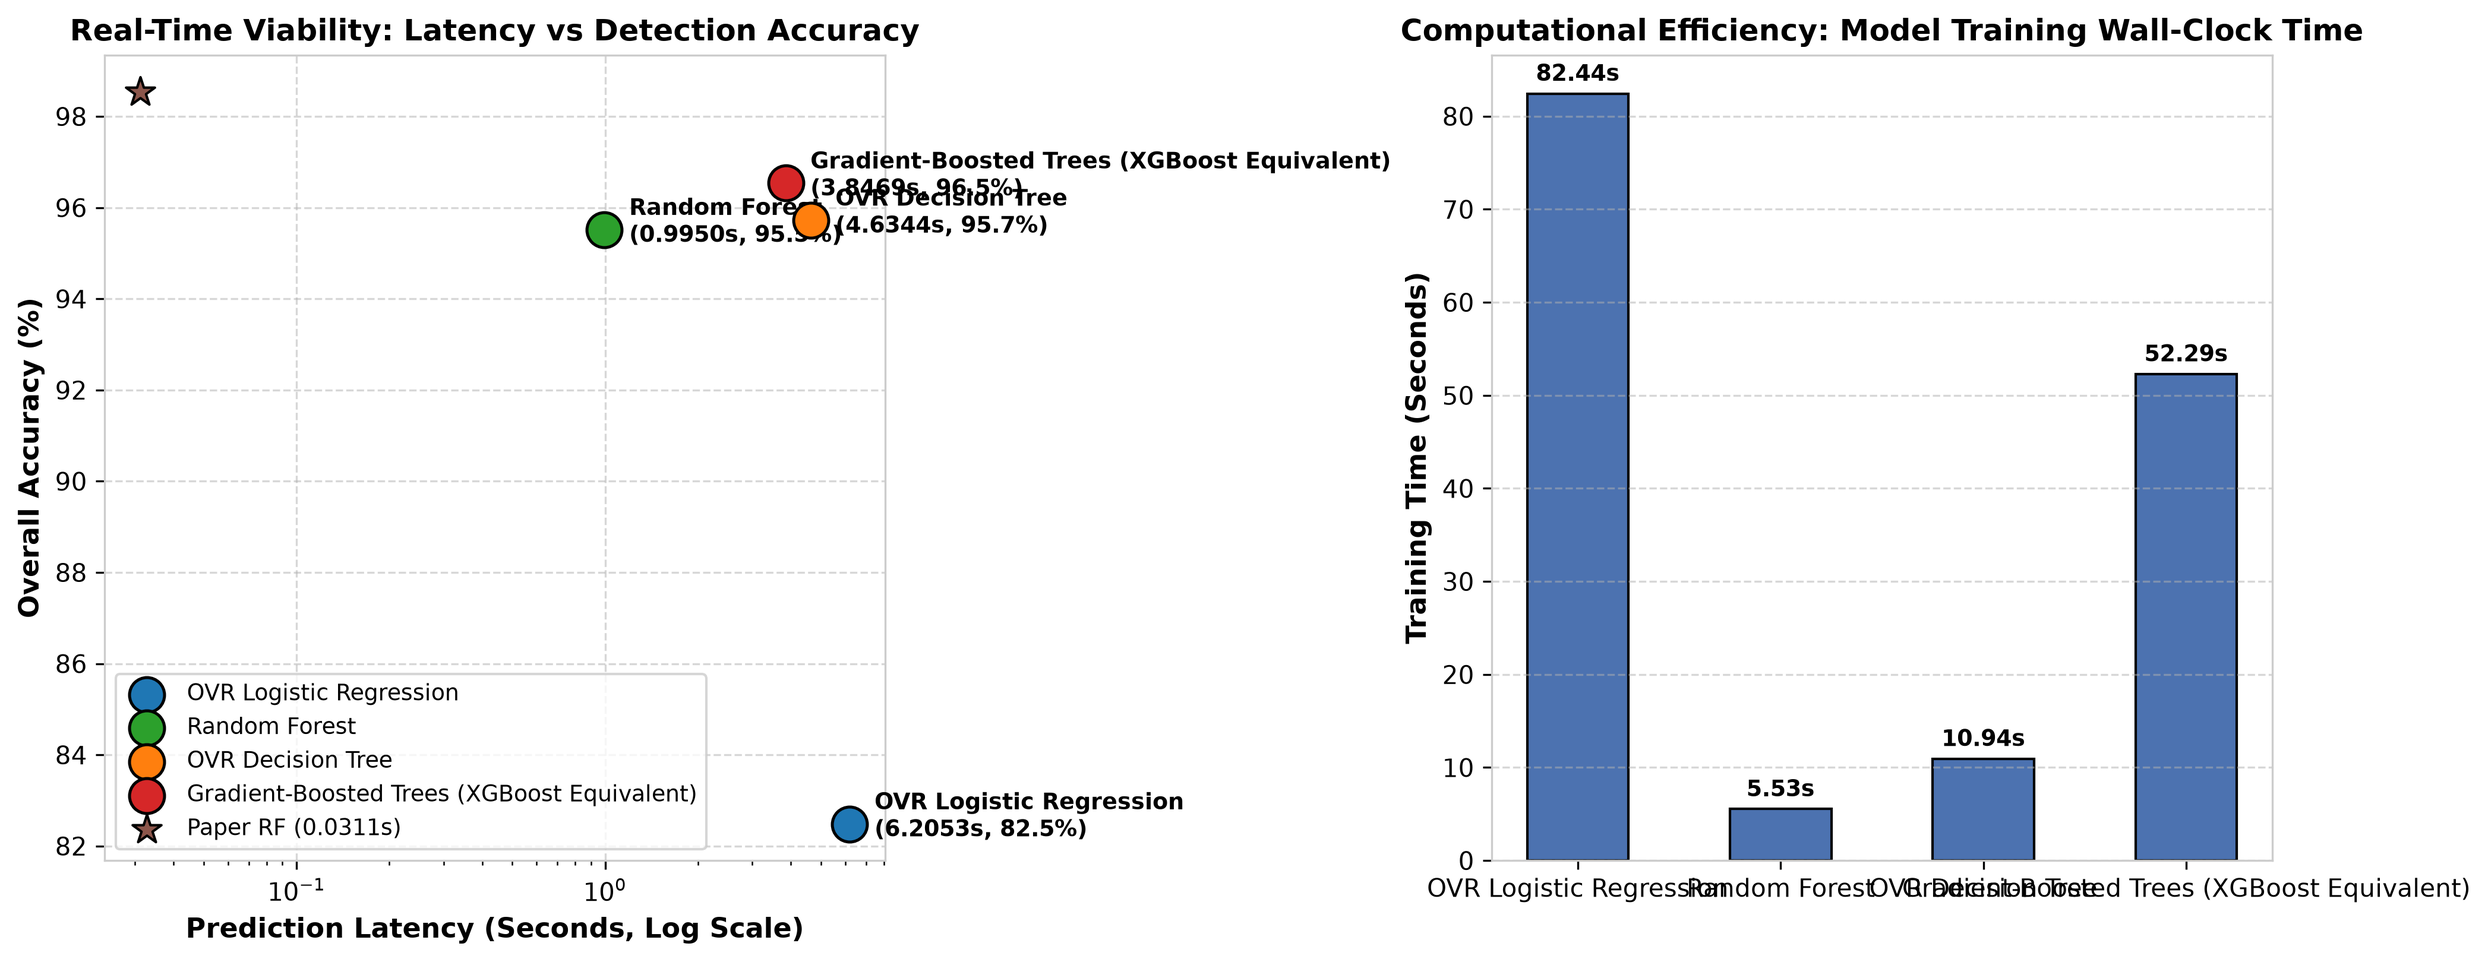
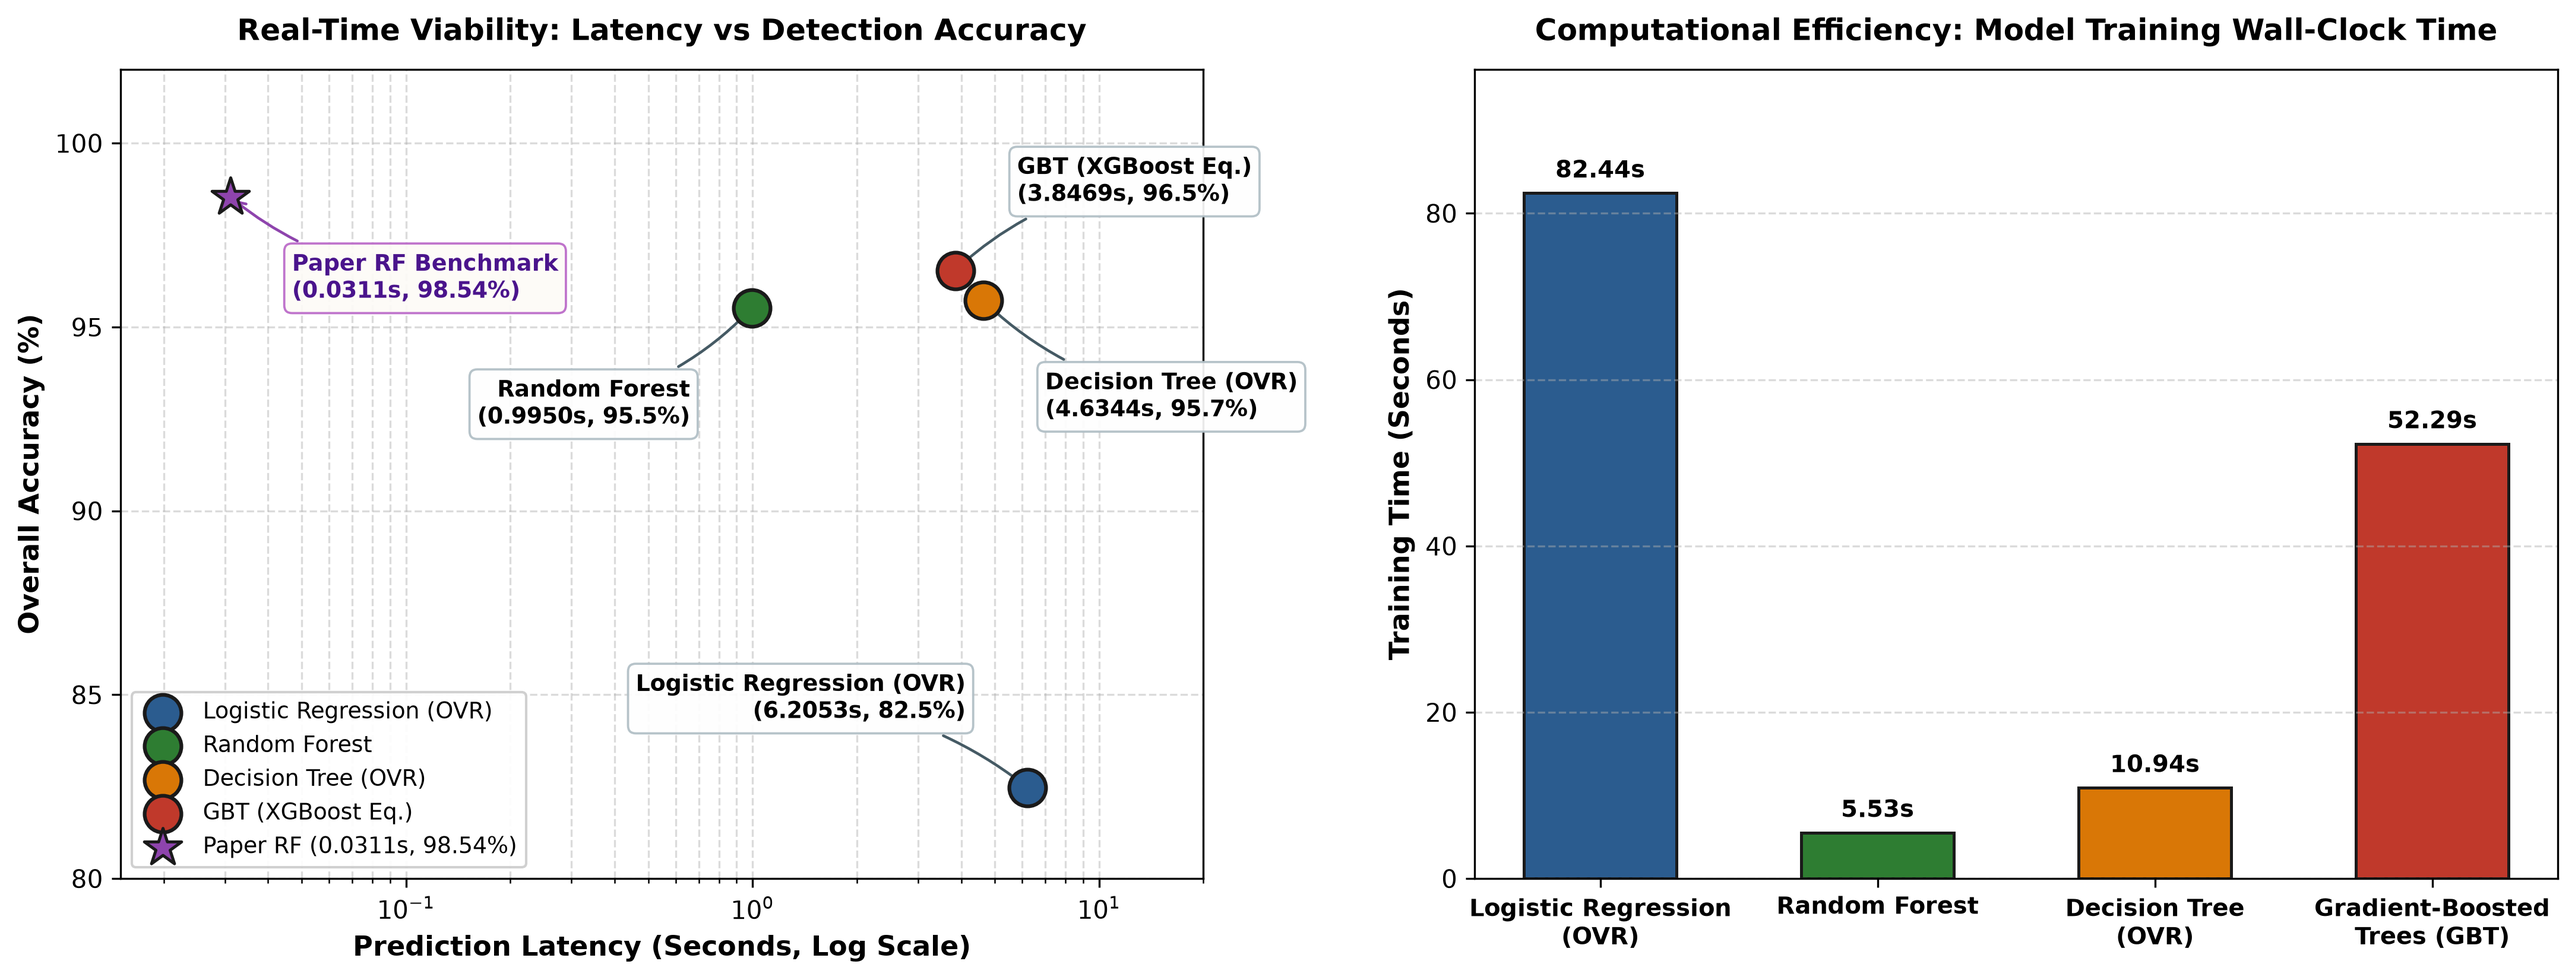
style(viz): polish publication plots with non-overlapping callout annotations and clean multiline x-ticks

diff --git a/src/evaluator.py b/src/evaluator.py
@@ -325,10 +325,23 @@ def plot_performance_comparison(
     ax.axhline(98.89, color="#d62728", linestyle="--", linewidth=1.2, label="Paper Peak Accuracy (XGB: 98.89%)")
     ax.axhline(98.54, color="#e377c2", linestyle=":", linewidth=1.2, label="Paper RF Accuracy (98.54%)")
 
+    display_names = []
+    for m in model_names:
+        if "Logistic" in m:
+            display_names.append("Logistic Regression\n(OVR)")
+        elif "Random Forest" in m:
+            display_names.append("Random Forest")
+        elif "Decision Tree" in m:
+            display_names.append("Decision Tree\n(OVR)")
+        elif "Gradient" in m or "GBT" in m:
+            display_names.append("Gradient-Boosted\nTrees (GBT / XGB)")
+        else:
+            display_names.append(m)
+
     ax.set_ylabel("Metric Score (%)", fontsize=11, fontweight="bold")
     ax.set_title("Performance Comparison across Models vs Alrefaei & Ilyas (2024) Benchmark", fontsize=13, fontweight="bold", pad=15)
     ax.set_xticks(x)
-    ax.set_xticklabels([m.replace(" Classifier", "").replace("OneVsRest ", "OVR ") for m in model_names], fontsize=10)
+    ax.set_xticklabels(display_names, fontsize=10, fontweight="bold")
     ax.set_ylim(70, 103)
     ax.grid(axis="y", linestyle="--", alpha=0.5)
     ax.legend(loc="lower right", framealpha=0.9)
@@ -359,59 +372,131 @@ def plot_latency_tradeoff(
     output_path: Path = LATENCY_TRADEOFF_PNG
 ):
     """
-    Generates a dual-panel trade-off chart visualizing:
+    Generates a polished dual-panel publication trade-off chart visualizing:
     1. Prediction Latency (seconds) vs Accuracy (Real-time IoT Edge viability).
-    2. Training Time (seconds) across models.
+       Features clean rounded callouts with pointer arrows and zero label collisions.
+    2. Training Time (seconds) across models with multiline bold ticks and headroom.
     Highlights Random Forest's rapid 0.0311s inference time demonstrated in the paper.
     """
     if not all_results:
         return
 
-    model_names = [r["model_name"].replace(" Classifier", "").replace("OneVsRest ", "OVR ") for r in all_results]
+    def clean_model_name(raw_name: str) -> str:
+        if "Logistic" in raw_name:
+            return "Logistic Regression (OVR)"
+        elif "Random Forest" in raw_name:
+            return "Random Forest"
+        elif "Decision Tree" in raw_name:
+            return "Decision Tree (OVR)"
+        elif "Gradient" in raw_name or "GBT" in raw_name:
+            return "GBT (XGBoost Eq.)"
+        return raw_name
+
+    def multiline_label(raw_name: str) -> str:
+        if "Logistic" in raw_name:
+            return "Logistic Regression\n(OVR)"
+        elif "Random Forest" in raw_name:
+            return "Random Forest"
+        elif "Decision Tree" in raw_name:
+            return "Decision Tree\n(OVR)"
+        elif "Gradient" in raw_name or "GBT" in raw_name:
+            return "Gradient-Boosted\nTrees (GBT)"
+        return raw_name
+
+    short_names = [clean_model_name(r["model_name"]) for r in all_results]
+    bar_names = [multiline_label(r["model_name"]) for r in all_results]
     pred_times = [r["prediction_time_s"] for r in all_results]
     train_times = [r["training_time_s"] for r in all_results]
     accuracies = [r["accuracy"] * 100 for r in all_results]
 
-    fig, (ax1, ax2) = plt.subplots(1, 2, figsize=(14, 5.5), dpi=300)
+    palette = ["#2b5c8f", "#2e7d32", "#d97706", "#c0392b"][:len(short_names)]
+
+    fig, (ax1, ax2) = plt.subplots(1, 2, figsize=(15, 6), dpi=300)
 
     # Panel 1: Prediction Latency vs Accuracy Scatter
-    scatter_colors = ["#1f77b4", "#2ca02c", "#ff7f0e", "#d62728"][:len(model_names)]
-    for i, name in enumerate(model_names):
-        ax1.scatter(pred_times[i], accuracies[i], s=200, color=scatter_colors[i], label=name, edgecolors="black", linewidth=1.2, zorder=5)
-        ax1.annotate(
-            f"{name}\n({pred_times[i]:.4f}s, {accuracies[i]:.1f}%)",
-            (pred_times[i], accuracies[i]),
-            textcoords="offset points",
-            xytext=(10, -5),
-            fontsize=9,
-            fontweight="bold"
+    for i, name in enumerate(short_names):
+        ax1.scatter(
+            pred_times[i], accuracies[i],
+            s=220, color=palette[i],
+            label=name, edgecolors="#1a1a1a", linewidth=1.5, zorder=5
         )
 
-    # Reference point for paper RF
-    ax1.scatter(0.0311, 98.54, s=150, color="#8c564b", marker="*", label="Paper RF (0.0311s)", edgecolors="black", zorder=6)
+    # Reference point for paper RF benchmark
+    ax1.scatter(
+        0.0311, 98.54,
+        s=250, color="#8e44ad", marker="*",
+        label="Paper RF (0.0311s, 98.54%)",
+        edgecolors="#1a1a1a", linewidth=1.2, zorder=6
+    )
+
+    # Non-overlapping callout placement: (dx, dy, ha, va, rad)
+    annotation_configs = {
+        "Logistic Regression (OVR)": (-25, 25, "right", "bottom", -0.15),
+        "Random Forest": (-25, -28, "right", "top", 0.15),
+        "Decision Tree (OVR)": (25, -28, "left", "top", -0.15),
+        "GBT (XGBoost Eq.)": (25, 25, "left", "bottom", 0.15),
+    }
+
+    for i, name in enumerate(short_names):
+        dx, dy, ha, va, rad = annotation_configs.get(name, (20, 10, "left", "center", 0.0))
+        ax1.annotate(
+            f"{name}\n({pred_times[i]:.4f}s, {accuracies[i]:.1f}%)",
+            xy=(pred_times[i], accuracies[i]),
+            xytext=(dx, dy),
+            textcoords="offset points",
+            ha=ha, va=va,
+            fontsize=9,
+            fontweight="bold",
+            bbox=dict(boxstyle="round,pad=0.35", facecolor="#fefefe", edgecolor="#b0bec5", alpha=0.92, lw=0.9),
+            arrowprops=dict(arrowstyle="->", connectionstyle=f"arc3,rad={rad}", color="#455a64", lw=1.1)
+        )
+
+    # Annotate Paper RF Reference Star
+    ax1.annotate(
+        "Paper RF Benchmark\n(0.0311s, 98.54%)",
+        xy=(0.0311, 98.54),
+        xytext=(25, -22),
+        textcoords="offset points",
+        ha="left", va="top",
+        fontsize=9,
+        fontweight="bold",
+        color="#4a148c",
+        bbox=dict(boxstyle="round,pad=0.35", facecolor="#fdfbf7", edgecolor="#ba68c8", alpha=0.92, lw=0.9),
+        arrowprops=dict(arrowstyle="->", connectionstyle="arc3,rad=-0.15", color="#8e44ad", lw=1.1)
+    )
 
     ax1.set_xlabel("Prediction Latency (Seconds, Log Scale)", fontsize=11, fontweight="bold")
     ax1.set_ylabel("Overall Accuracy (%)", fontsize=11, fontweight="bold")
-    ax1.set_title("Real-Time Viability: Latency vs Detection Accuracy", fontsize=12, fontweight="bold")
+    ax1.set_title("Real-Time Viability: Latency vs Detection Accuracy", fontsize=12, fontweight="bold", pad=12)
     ax1.set_xscale("log")
-    ax1.grid(True, linestyle="--", alpha=0.5)
-    ax1.legend(loc="lower left", fontsize=9)
+    ax1.set_xlim(0.015, 20)
+    ax1.set_ylim(80, 102)
+    ax1.set_yticks([80, 85, 90, 95, 100])
+    ax1.grid(True, which="both", linestyle="--", alpha=0.45)
+    ax1.legend(loc="lower left", fontsize=9, framealpha=0.92, edgecolor="#cccccc")
 
     # Panel 2: Training Time Bar Chart
-    bars = ax2.bar(model_names, train_times, color="#4c72b0", edgecolor="black", width=0.5)
+    bars = ax2.bar(range(len(bar_names)), train_times, color=palette, edgecolor="#1a1a1a", linewidth=1.2, width=0.55)
     ax2.set_ylabel("Training Time (Seconds)", fontsize=11, fontweight="bold")
-    ax2.set_title("Computational Efficiency: Model Training Wall-Clock Time", fontsize=12, fontweight="bold")
-    ax2.grid(axis="y", linestyle="--", alpha=0.5)
+    ax2.set_title("Computational Efficiency: Model Training Wall-Clock Time", fontsize=12, fontweight="bold", pad=12)
+    ax2.set_xticks(range(len(bar_names)))
+    ax2.set_xticklabels(bar_names, fontsize=9.5, fontweight="bold")
+    ax2.set_ylim(0, max(train_times) * 1.18)
+    ax2.grid(axis="y", linestyle="--", alpha=0.45)
 
     for bar in bars:
         h = bar.get_height()
-        ax2.annotate(f"{h:.2f}s",
-                     xy=(bar.get_x() + bar.get_width() / 2, h),
-                     xytext=(0, 3),
-                     textcoords="offset points",
-                     ha="center", va="bottom", fontsize=9, fontweight="bold")
+        ax2.annotate(
+            f"{h:.2f}s",
+            xy=(bar.get_x() + bar.get_width() / 2, h),
+            xytext=(0, 4),
+            textcoords="offset points",
+            ha="center", va="bottom",
+            fontsize=9.5,
+            fontweight="bold"
+        )
 
-    plt.tight_layout()
+    plt.tight_layout(pad=2.5)
     fig.savefig(output_path, bbox_inches="tight")
     plt.close(fig)
     logger.info(f"Latency trade-off plot saved to: {output_path}")
